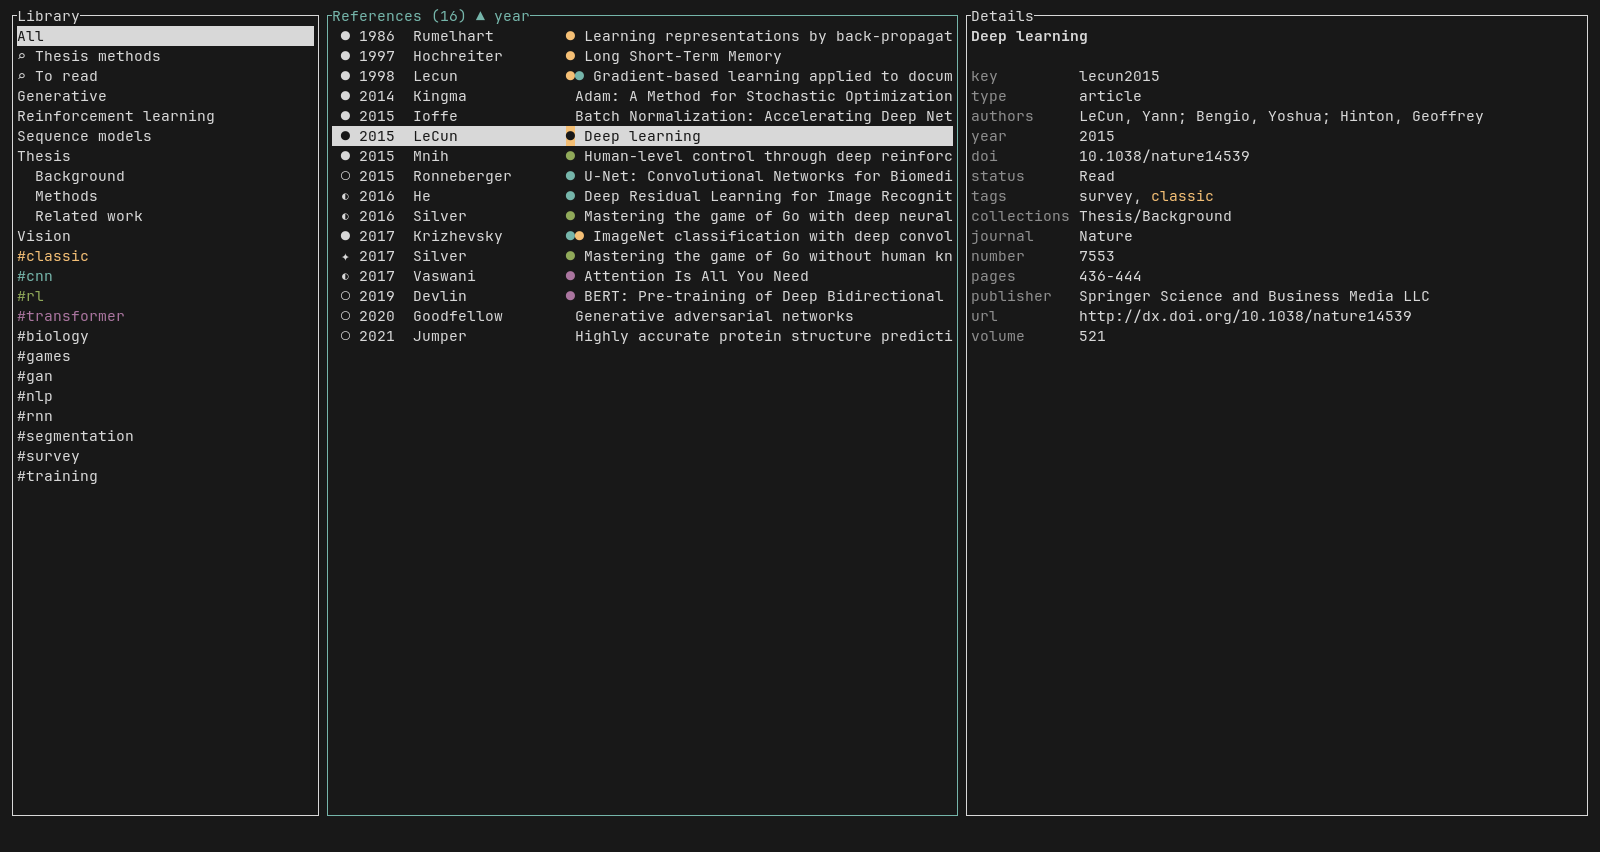
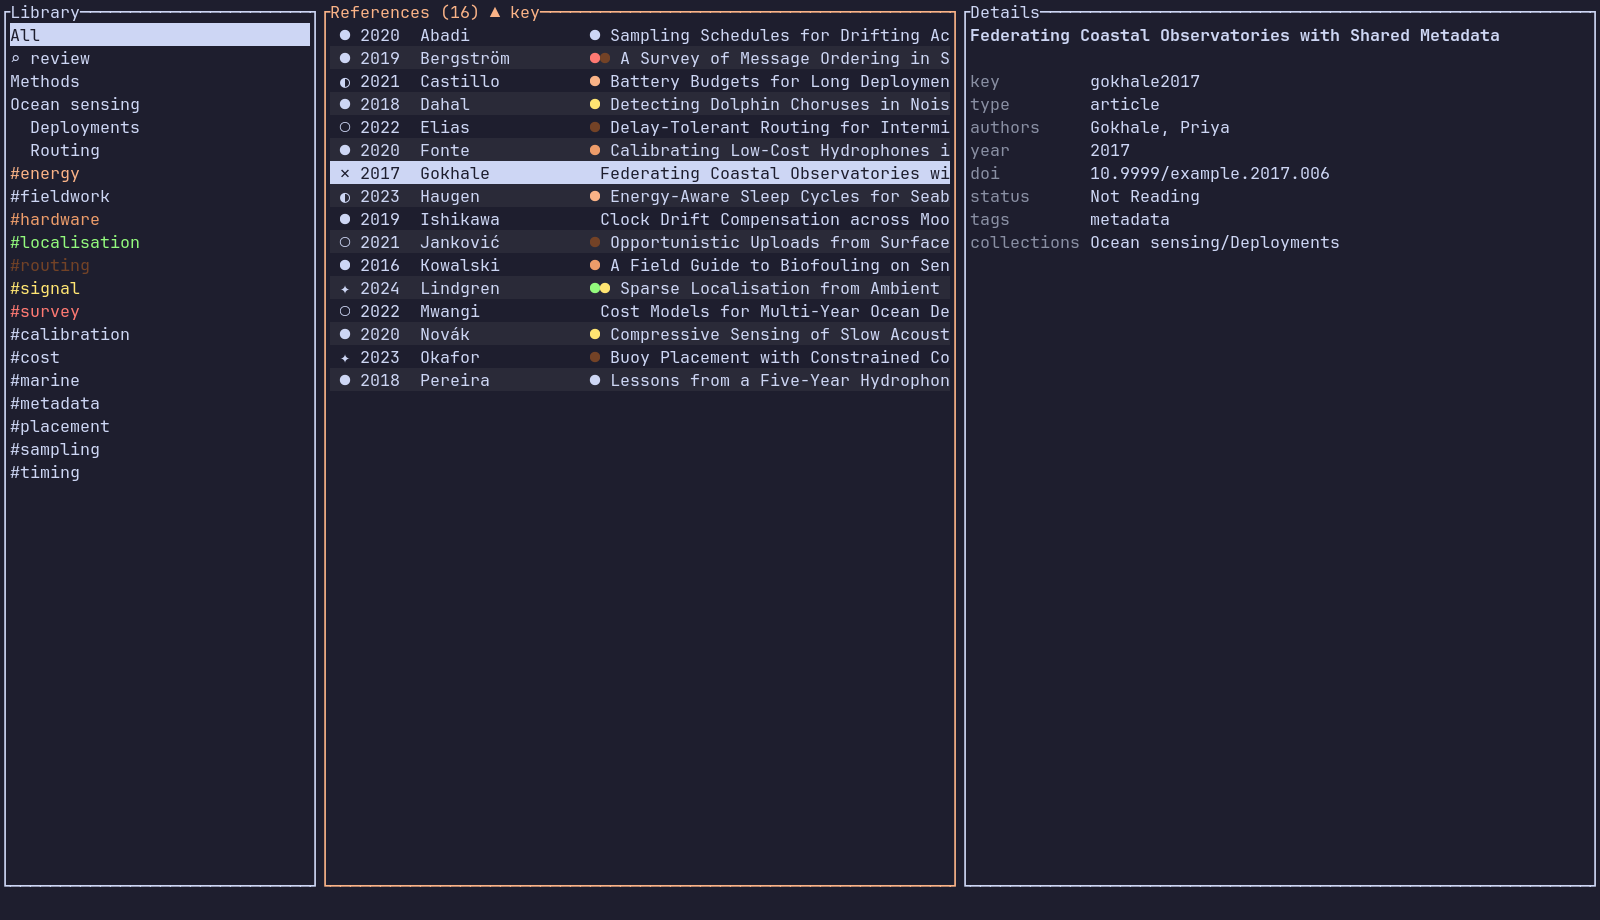
Shade every other row in the reference lists and tables (#391)
Alternate rows take a lighter tint of the terminal's own background, asked
for with OSC 11 while the picker probes the terminal, so a line is easy to
follow across a wide list while the terminal keeps its normal foreground.
A terminal that does not report its background keeps plain rows.

The Android list shades alternate rows with #dcdcdc, which keeps black text
well above the contrast minimum.

Screenshots come from a fictitious library; table.png joins the
literature-tables section, and both READMEs say what the shading is for.

🤖 Generated with opencode

Changed region(s): [[0.0, 0.0, 1.0, 0.9765]]

diff --git a/yeda-android/src/browser.ts b/yeda-android/src/browser.ts
@@ -92,6 +92,7 @@ const STYLE = `
 .yeda .status:empty { display: none; }
 .yeda ul { list-style: none; margin: 0; padding: 0; }
 .yeda li { padding: 12px 4px; border-bottom: 1px solid #000; }
+.yeda .references li:nth-child(even) { background: #dcdcdc; }
 .yeda .meta { font-size: 14px; margin-top: 4px; }
 .yeda .chip { display: inline-block; border: 1px solid #000; padding: 2px 8px; margin: 2px 4px 2px 0; font-size: 14px; }
 .yeda .chip button { border: none; padding: 0 0 0 8px; background: none; color: inherit; }
@@ -228,7 +229,7 @@ export function showBrowser(openReader: () => void): () => boolean {
 	async function showList() {
 		const rows = await invoke<Row[]>('list', { filter, query: search.value, sort });
 		localStorage.setItem(VIEW_KEY, JSON.stringify({ filter, sort, query: search.value }));
-		const list = h('ul', {}, ...rows.map(r => h('li', { onclick: () => run(() => showDetails(r.key)) },
+		const list = h('ul', { className: 'references' }, ...rows.map(r => h('li', { onclick: () => run(() => showDetails(r.key)) },
 			h('div', {}, `${GLYPHS[r.status] ?? '?'} `, r.title || r.key),
 			h('div', { className: 'meta' }, [r.authors[0]?.split(',')[0], r.year].filter(Boolean).join(' · '),
 				r.has_pdf ? '' : ' · no PDF'),

diff --git a/yeda-tui/src/ui.rs b/yeda-tui/src/ui.rs
@@ -56,6 +56,21 @@ pub fn status_glyph(status: &str) -> &'static str {
     }
 }
 
+/// The colour of alternate rows: the terminal's own background, a little lighter, so the stripes
+/// read as texture rather than as a second colour.
+pub fn alternate((r, g, b): (u8, u8, u8)) -> Color {
+    let lighten = |c: u8| (c as f32 * 0.88 + 128.0 * 0.12).round() as u8;
+    Color::Rgb(lighten(r), lighten(g), lighten(b))
+}
+
+/// Shades every other row, so a line is easy to follow across a wide list.
+fn stripe(bg: Option<Color>, i: usize) -> Style {
+    match bg {
+        Some(bg) if !i.is_multiple_of(2) => Style::new().bg(bg),
+        _ => Style::new(),
+    }
+}
+
 fn row(r: &Ref, lib: &Library, marked: bool) -> Line<'static> {
     let year = r.year.map(|y| y.to_string()).unwrap_or_default();
     let author = r.authors.first().and_then(|a| a.split(',').next()).unwrap_or("");
@@ -233,7 +248,9 @@ fn draw_table(f: &mut Frame, app: &mut App, area: Rect) {
     }
     let shown = &vis[t.left..right];
     let header = Row::new(shown.iter().map(|&c| Cell::from(columns[c].clone()))).style(Style::new().fg(Color::Cyan).bold());
-    let body = rows.iter().map(|r| Row::new(shown.iter().map(|&c| Cell::from(r[c].lines().next().unwrap_or_default().to_string()))));
+    let body = rows.iter().enumerate().map(|(i, r)| {
+        Row::new(shown.iter().map(|&c| Cell::from(r[c].lines().next().unwrap_or_default().to_string()))).style(stripe(app.stripe, i))
+    });
     let widget = Table::new(body, shown.iter().map(|&c| Constraint::Length(widths[c])))
         .header(header)
         .block(block(title, focused))
@@ -293,7 +310,8 @@ pub fn draw(f: &mut Frame, app: &mut App) {
     let items: Vec<ListItem> = app
         .visible
         .iter()
-        .map(|&i| ListItem::new(row(&app.lib.refs[i], &app.lib, app.marked.contains(&app.lib.refs[i].key))))
+        .enumerate()
+        .map(|(n, &i)| ListItem::new(row(&app.lib.refs[i], &app.lib, app.marked.contains(&app.lib.refs[i].key))).style(stripe(app.stripe, n)))
         .collect();
     let order = if app.sort.descending { "▼" } else { "▲" };
     let mut title = format!("References ({}) {order} {}", app.visible.len(), app.sort.field.name());
@@ -1191,5 +1209,21 @@ mod tests {
         let mut widths = [40, 40];
         super::widen(&mut widths, &[100, 100], 11);
         assert_eq!(widths, [46, 45]);
+    }
+
+    #[test]
+    fn shades_alternate_rows() {
+        let bg = Some(super::alternate((30, 30, 46)));
+        assert_eq!(super::stripe(bg, 0), super::stripe(bg, 2));
+        assert_ne!(super::stripe(bg, 0), super::stripe(bg, 1));
+        assert_eq!(super::stripe(bg, 1).bg, bg);
+        assert_eq!(super::stripe(None, 1), ratatui::style::Style::new());
+    }
+
+    #[test]
+    fn lightens_the_background_a_little() {
+        assert_eq!(super::alternate((30, 30, 46)), ratatui::style::Color::Rgb(42, 42, 56));
+        assert_eq!(super::alternate((255, 255, 255)), ratatui::style::Color::Rgb(240, 240, 240));
+        assert_eq!(super::alternate((0, 0, 0)), ratatui::style::Color::Rgb(15, 15, 15));
     }
 }

diff --git a/yeda-tui/src/app.rs b/yeda-tui/src/app.rs
@@ -1,8 +1,9 @@
 use crate::{citations, fetch, ops, pdftext, undo};
 use ratatui::crossterm::event::{KeyCode, KeyEvent, KeyModifiers, MouseButton, MouseEvent, MouseEventKind};
 use ratatui::layout::{Position, Rect};
+use ratatui::style::Color;
 use crate::keys::{self, Keymap, Lookup};
-use ratatui_image::picker::Picker;
+use ratatui_image::picker::{Capability, Picker};
 use ratatui_image::protocol::StatefulProtocol;
 use std::collections::{BTreeSet, HashMap, HashSet};
 use std::fs;
@@ -616,6 +617,8 @@ pub struct App {
     pub diff: Option<DiffView>,
     pub job: Option<Job>,
     picker: Picker,
+    /// The background of alternate rows, once the terminal reports its own.
+    pub stripe: Option<Color>,
     summarizer: Option<Summarizer>,
     pub chooser: Option<Chooser>,
     /// Identifiers to add once their collection is picked, and the mode to go back to.
@@ -708,6 +711,10 @@ const HISTORY_LEN: usize = 200;
 impl App {
     pub fn new(dir: PathBuf, lib: Library, picker: Picker, keymap: Keymap) -> Self {
         let history = lib.cache.as_ref().and_then(|c| fs::read_to_string(c.join("history")).ok()).unwrap_or_default();
+        let stripe = picker.capabilities().iter().find_map(|c| match c {
+            Capability::Background(r, g, b) => Some(crate::ui::alternate((*r, *g, *b))),
+            _ => None,
+        });
         let status = unreadable(&lib);
         let mut app = Self {
             history: history.lines().map(String::from).collect(),
@@ -753,6 +760,7 @@ impl App {
             diff: None,
             job: None,
             picker,
+            stripe,
             summarizer: None,
             chooser: None,
             pending_add: None,

diff --git a/yeda-tui/src/main.rs b/yeda-tui/src/main.rs
@@ -432,7 +432,8 @@ fn copy_pdfs(from: &str, to: &str, dir: &Path) -> Result<()> {
 }
 
 fn detect_picker() -> Picker {
-    let options = QueryStdioOptions::default();
+    // The alternate-row colour is a tint of the terminal's own background.
+    let options = QueryStdioOptions { terminal_background_color_osc: true, ..QueryStdioOptions::default() };
     let deadline = options.timeout;
     let started = Instant::now();
     let picker = Picker::from_query_stdio_with_options(options).unwrap_or_else(|_| Picker::halfblocks());

diff --git a/README.md b/README.md
@@ -73,6 +73,8 @@ yeda            # open it
 
 `h`/`l` or `Tab` move between columns, `j`/`k` move within one, and `c` shows the current column alone. A narrow terminal hides the right column, then the library.
 
+Every other row of the reference list and of a literature table is shaded a little lighter than the terminal's own background, so a line is easy to follow across the window. A terminal that does not report its background gets plain rows.
+
 ## Reading and annotating
 
 `o` opens the selected paper's PDF in yeda's reader, which you control with vim keys. There you highlight, underline, and add notes, text, image areas and ink. Annotations are saved in the library, next to the paper, so the Android app shows them too. `A` lists them in the right column.
@@ -146,6 +148,8 @@ subproblem = "The problem it tackles and why earlier work falls short."
 
 `:table` shows the rows of the selected papers. Cells can be read in full, edited, sorted and filtered; `:export` writes the table to CSV, `yeda import-table` reads one back, and `:graph col group` clusters papers by a column's values.
 
+![Literature table](yeda-tui/screenshots/table.png)
+
 ### Finding papers
 
 `:discover` asks the LLM for papers related to the selected ones, or to a description you give (`:discover swarm exploration under comms loss`). The model writes several queries; yeda searches the enabled web providers and arXiv in parallel, matches the hits to OpenAlex works, drops what is not a paper, and has the model rank the rest. `:setup web-search` chooses the providers (`keenable`, `exa`, `parallel`, `firecrawl`, `searxng`, or the LLM provider's own search) and their optional keys; arXiv is always searched. `:discover!` skips cached results. Marked papers are kept and sorted last, `v` marks, and `a` adds.
@@ -217,6 +221,8 @@ On first start, pick the library folder with the system folder picker and allow 
 - **Search**: the same search as the terminal app, such as `author:smith tag:ml`; a search can be saved.
 - **Filter**: a form for searching by field. **▲ key** sorts.
 - **⟳**: git sync. **⚙**: settings.
+
+Every other row of the list is shaded, so a line is easy to follow across the screen.
 
 Tap a paper to open it. There you open its PDFs or add one, preview its annotations, edit its Markdown note or its raw file, and change its reading status, tags and collection.
 

diff --git a/yeda-tui/README.md b/yeda-tui/README.md
@@ -72,6 +72,8 @@ yeda            # open it
 
 `h`/`l` or `Tab` move between columns, `j`/`k` move within one, and `c` shows the current column alone. A narrow terminal hides the right column, then the library.
 
+Every other row of the reference list and of a literature table is shaded a little lighter than the terminal's own background, so a line is easy to follow across the window. A terminal that does not report its background gets plain rows.
+
 ## Reading and annotating
 
 `o` opens the selected paper's PDF in yeda's reader, which you control with vim keys. There you highlight, underline, and add notes, text, image areas and ink. Annotations are saved in the library, next to the paper, so the Android app shows them too. `A` lists them in the right column.
@@ -144,6 +146,8 @@ subproblem = "The problem it tackles and why earlier work falls short."
 `:summarize` has the LLM read each selected paper and fill in its row. The LLM also sees the values other papers already have in each column and reuses one when it fits, so a column like `group` sorts papers into shared topics.
 
 `:table` shows the rows of the selected papers. Cells can be read in full, edited, sorted and filtered; `:export` writes the table to CSV, `yeda import-table` reads one back, and `:graph col group` clusters papers by a column's values.
+
+![Literature table](screenshots/table.png)
 
 ### Finding papers
 

diff --git a/yeda-android/README.md b/yeda-android/README.md
@@ -23,6 +23,8 @@ On first start, pick the library folder with the system folder picker and allow 
 - **Filter**: a form for searching by field. **▲ key** sorts.
 - **⟳**: git sync. **⚙**: settings.
 
+Every other row of the list is shaded, so a line is easy to follow across the screen.
+
 Tap a paper to open it. There you open its PDFs or add one, preview its annotations, edit its Markdown note or its raw file, and change its reading status, tags and collection.
 
 ## Reading and annotating
